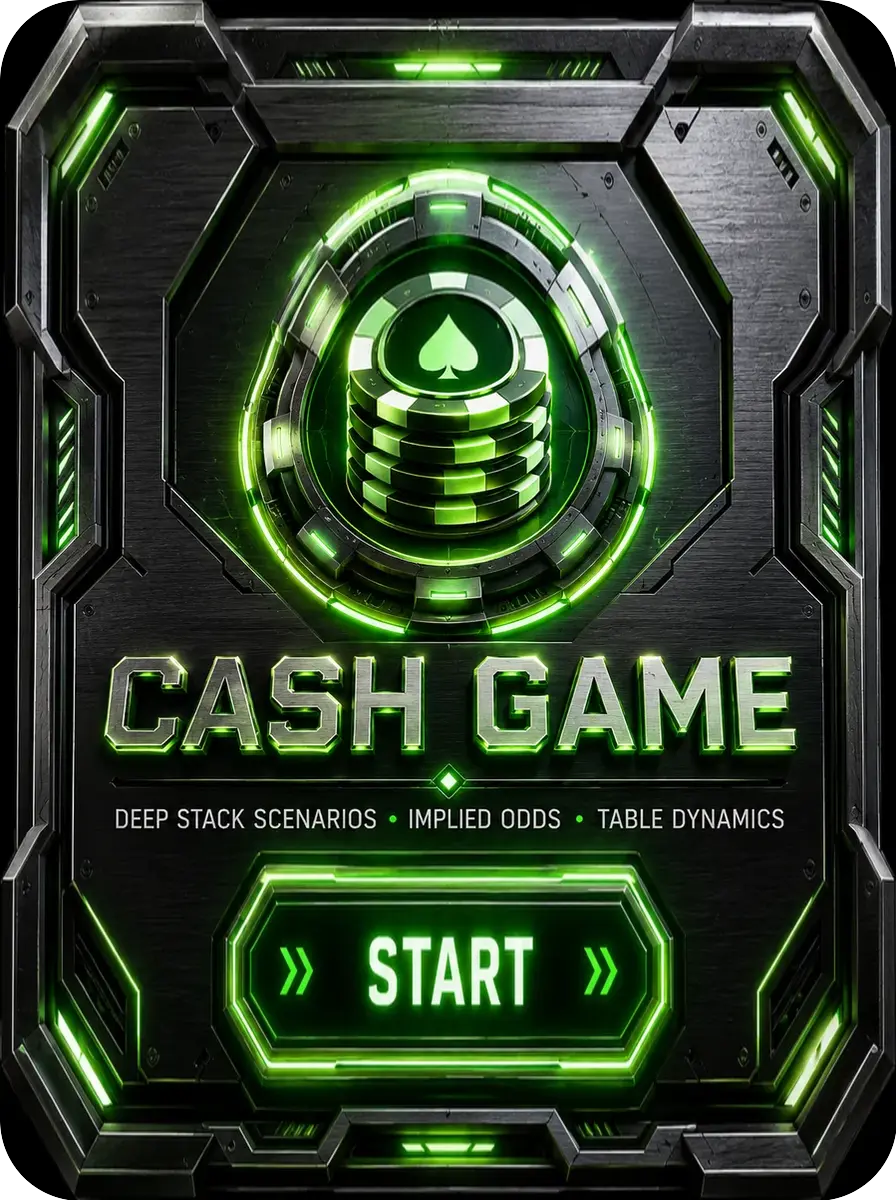
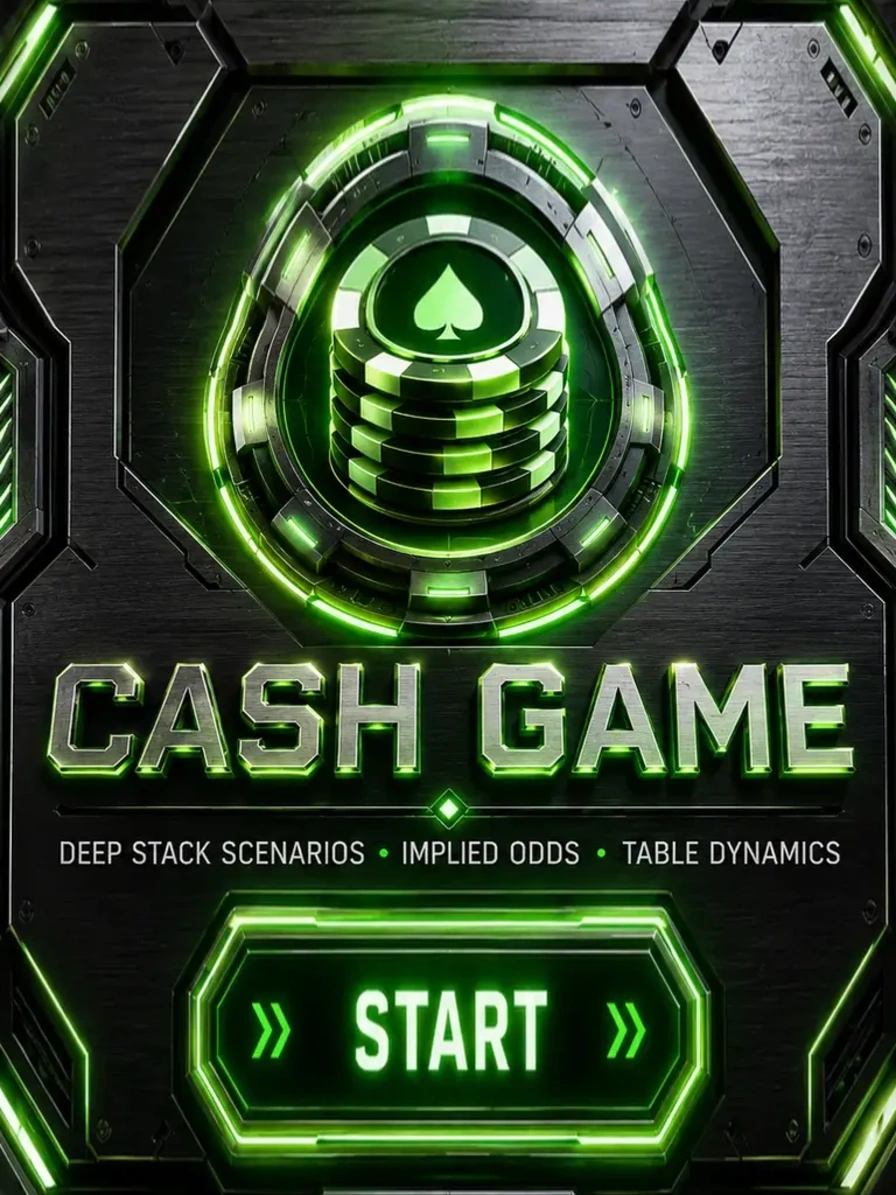
fix: add visual feedback connecting state to TriviaLobby variable cost modes and fix image aspect ratios

diff --git a/pages/hub/trivia/[mode].js b/pages/hub/trivia/[mode].js
@@ -164,16 +164,6 @@ export default function TriviaModePage() {
     const [saveErrorPayload, setSaveErrorPayload] = useState(null);
     const savePhaseRef = useRef(0); // 0=none, 1=score, 2=diamonds, 3=history, 4=mastery, 5=daily
 
-    // ── IDEMPOTENCY ────────────────────────────────────────────────────
-    // add_diamonds_to_balance dedups on p_reference_id, so the reference must
-    // be (a) STABLE across a saving_error retry of the SAME run, and (b) UNIQUE
-    // across runs. The old map was keyed only by actionType and was cleared
-    // only inside handlePlayAgain, so any other path back to 'ready' (a
-    // re-`initialize()` from an auth/router change, a Play-Again on a different
-    // mode, etc.) replayed the previous run's reference and the RPC silently
-    // swallowed the whole reward. Anchoring every key to a per-RUN id — minted
-    // in startGame(), exactly like endless.js mints gameRewardRefId — gives us
-    // both properties with one ref.
     // The per-run idempotency key chain (gameRunIdRef / newGameRunId /
     // getIdempotencyKey) is gone: it existed only to build p_reference_id
     // values for browser-side diamond credits, and this page no longer makes

diff --git a/src/components/trivia/TriviaLobby.jsx b/src/components/trivia/TriviaLobby.jsx
@@ -231,6 +231,7 @@ export default function TriviaLobby({ userDiamonds = 0, isVip = false, dailyComp
 
     // Route to the correct page for a mode
     const routeToMode = (modeId) => {
+        setIsRouting(true);
         const standaloneRoutes = {
             survival: '/hub/trivia/survival-game',
             endless: '/hub/trivia/endless',
@@ -246,7 +247,6 @@ export default function TriviaLobby({ userDiamonds = 0, isVip = false, dailyComp
         if (!modeId) return;
         // Remember the disclosure so it is shown once, not once per mode.
         try { localStorage.setItem(ACKNOWLEDGED_KEY, 'true'); } catch (e) { console.warn('[App] Handled exception:', e?.message || e); }
-        setIsRouting(true);
         setShowChargePopup(false);
         setPendingMode(null);
         routeToMode(modeId);
